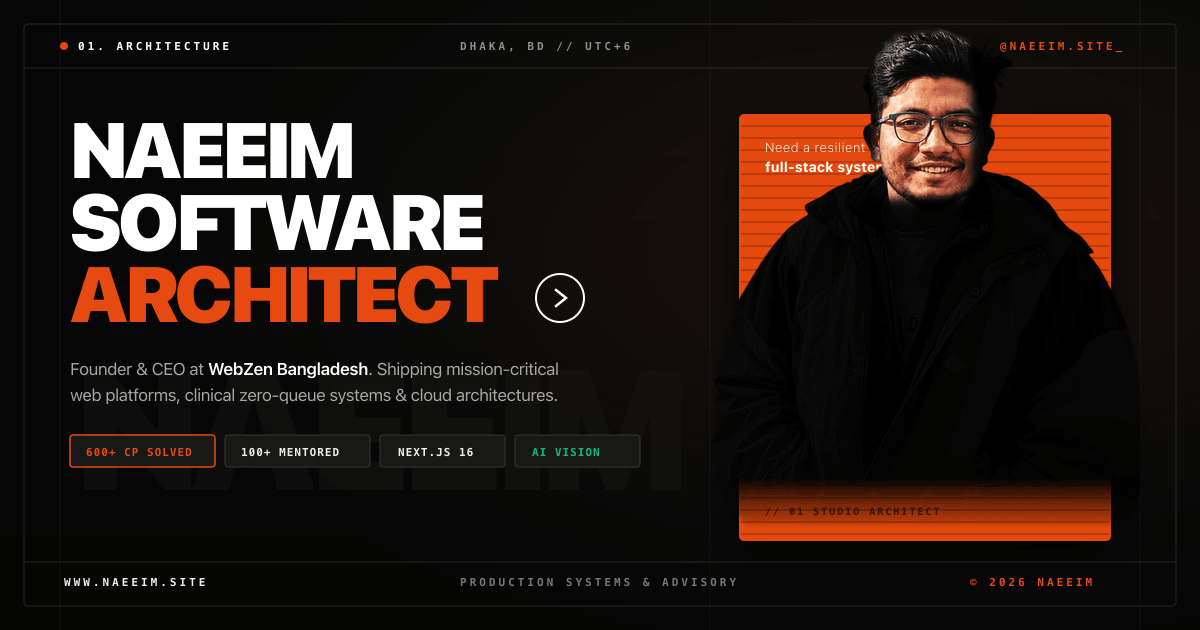
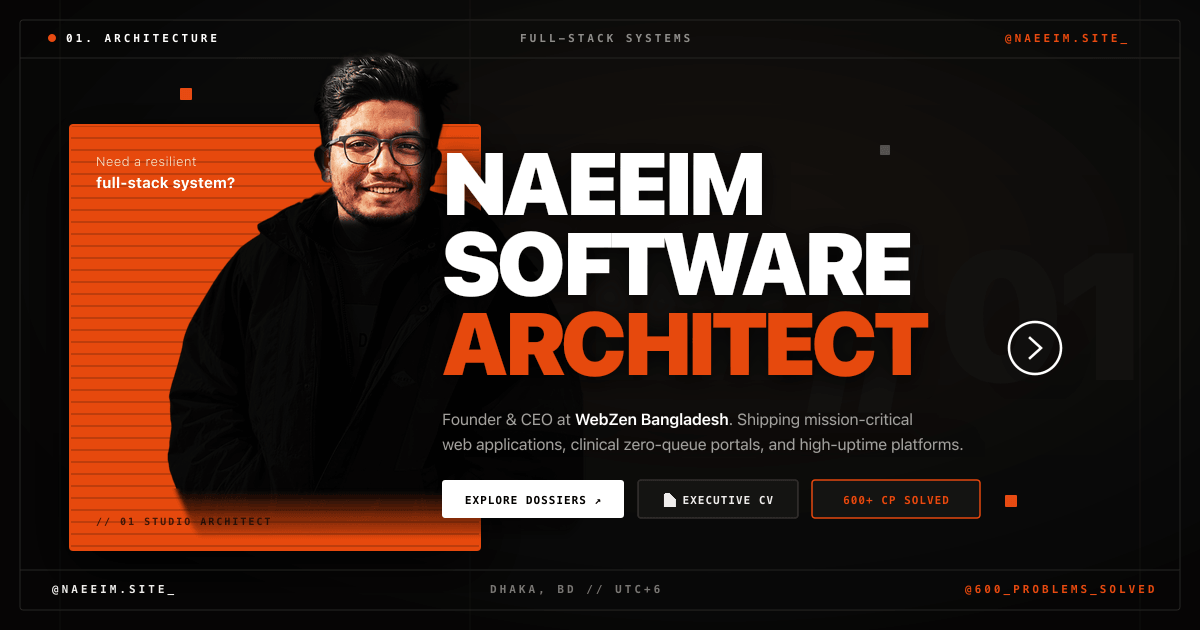
feat(og-image): update open graph image with current hero editorial poster layout

diff --git a/scripts/generate-og-image.js b/scripts/generate-og-image.js
@@ -6,188 +6,205 @@ async function createOgImage() {
   const root = path.resolve(__dirname, '..');
   const cutoutPath = path.join(root, 'public', 'images', 'hero-cutout.png');
 
-  // 1. Prepare Cutout Portrait (Height: 520px)
+  // 1. Prepare Cutout Portrait (Height: 520px, Width: ~444px)
   const resizedCutout = await sharp(cutoutPath)
-    .resize({ height: 530, fit: 'contain' })
+    .resize({ height: 515, fit: 'contain' })
     .toBuffer();
 
   const cutoutMeta = await sharp(resizedCutout).metadata();
   console.log('Resized cutout dimensions:', cutoutMeta.width, cutoutMeta.height);
 
-  // 2. Base 1200x630 SVG with Editorial Poster Aesthetics
-  const baseSvg = `
+  // 2. Base Background SVG (Layer 0 + Layer 1: Burnt Orange Block & Blueprint Grid)
+  const baseBgSvg = `
 <svg xmlns="http://www.w3.org/2000/svg" viewBox="0 0 1200 630" width="1200" height="630">
   <defs>
     <linearGradient id="bgGrad" x1="0%" y1="0%" x2="0%" y2="100%">
-      <stop offset="0%" stop-color="#121210"/>
+      <stop offset="0%" stop-color="#11110F"/>
       <stop offset="100%" stop-color="#080807"/>
     </linearGradient>
-    <radialGradient id="vignette" cx="75%" cy="40%" r="65%">
-      <stop offset="0%" stop-color="#24140D" stop-opacity="0.4"/>
-      <stop offset="60%" stop-color="#0A0A09" stop-opacity="0.8"/>
-      <stop offset="100%" stop-color="#050505" stop-opacity="0.95"/>
+    <radialGradient id="vignette" cx="60%" cy="40%" r="70%">
+      <stop offset="0%" stop-color="#1E140F" stop-opacity="0.4"/>
+      <stop offset="60%" stop-color="#0A0A09" stop-opacity="0.85"/>
+      <stop offset="100%" stop-color="#050505" stop-opacity="0.98"/>
     </radialGradient>
-    <pattern id="corduroy" width="12" height="12" patternUnits="userSpaceOnUse">
-      <line x1="0" y1="6" x2="12" y2="6" stroke="#000000" stroke-width="2" stroke-opacity="0.15"/>
-    </pattern>
     <pattern id="orangeStripes" width="12" height="12" patternUnits="userSpaceOnUse">
       <rect width="12" height="12" fill="#E64A11"/>
-      <line x1="0" y1="6" x2="12" y2="6" stroke="#000000" stroke-width="2" stroke-opacity="0.2"/>
+      <line x1="0" y1="6" x2="12" y2="6" stroke="#000000" stroke-width="2" stroke-opacity="0.18"/>
     </pattern>
-    <filter id="cardShadow" x="-10%" y="-10%" width="120%" height="120%">
-      <feDropShadow dx="0" dy="16" stdDeviation="24" flood-color="#000000" flood-opacity="0.8"/>
+    <filter id="blockShadow" x="-10%" y="-10%" width="120%" height="120%">
+      <feDropShadow dx="0" dy="20" stdDeviation="30" flood-color="#000000" flood-opacity="0.85"/>
     </filter>
   </defs>
 
-  <!-- Background Base -->
+  <!-- Canvas Background -->
   <rect width="1200" height="630" fill="url(#bgGrad)"/>
   <rect width="1200" height="630" fill="url(#vignette)"/>
 
-  <!-- Subtle Exposed Grid Lines (Swiss Precision) -->
+  <!-- Exposed Blueprint Grid Lines -->
   <line x1="60" y1="0" x2="60" y2="630" stroke="#FFFFFF" stroke-width="1" stroke-opacity="0.04"/>
-  <line x1="710" y1="0" x2="710" y2="630" stroke="#FFFFFF" stroke-width="1" stroke-opacity="0.04"/>
+  <line x1="470" y1="0" x2="470" y2="630" stroke="#FFFFFF" stroke-width="1" stroke-opacity="0.03"/>
   <line x1="1140" y1="0" x2="1140" y2="630" stroke="#FFFFFF" stroke-width="1" stroke-opacity="0.04"/>
 
-  <!-- Outer Border Frame -->
-  <rect x="24" y="24" width="1152" height="582" rx="4" fill="none" stroke="#262624" stroke-width="1"/>
+  <!-- Outer Swiss Perimeter Frame -->
+  <rect x="20" y="20" width="1160" height="590" rx="3" fill="none" stroke="#262624" stroke-width="1"/>
 
   <!-- TOP PERIMETER BAR -->
-  <line x1="24" y1="68" x2="1176" y2="68" stroke="#262624" stroke-width="1"/>
+  <line x1="20" y1="58" x2="1180" y2="58" stroke="#262624" stroke-width="1"/>
   
   <g font-family="monospace, -apple-system" font-size="11" font-weight="700" letter-spacing="3" fill="#8E8E88">
-    <!-- Left badge -->
-    <circle cx="64" cy="46" r="4" fill="#E64A11"/>
-    <text x="78" y="50" fill="#FFFFFF">01. ARCHITECTURE</text>
+    <circle cx="52" cy="38" r="4" fill="#E64A11"/>
+    <text x="66" y="42" fill="#FFFFFF">01. ARCHITECTURE</text>
     
-    <!-- Center coordinate -->
-    <text x="460" y="50">DHAKA, BD // UTC+6</text>
+    <text x="520" y="42">FULL-STACK SYSTEMS</text>
     
-    <!-- Right domain -->
-    <text x="1000" y="50" fill="#E64A11">@NAEEIM.SITE_</text>
+    <text x="1005" y="42" fill="#E64A11">@NAEEIM.SITE_</text>
   </g>
 
-  <!-- BACKGROUND WATERMARK (Subtle Large Text) -->
-  <text x="70" y="490" font-family="-apple-system, system-ui, sans-serif" font-size="170" font-weight="900" fill="#141412" letter-spacing="-8" opacity="0.6">
-    NAEEIM
+  <!-- LAYER 0: GIANT WATERMARK TEXT -->
+  <text x="640" y="380" text-anchor="middle" font-family="-apple-system, system-ui, sans-serif" font-size="180" font-weight="900" fill="#141412" letter-spacing="-8" opacity="0.65">
+    NAEEIM // 01
   </text>
 
   <!-- ========================================================= -->
-  <!-- RIGHT SIDE: BURNT ORANGE GEOMETRIC POSTER BLOCK           -->
+  <!-- LAYER 1: BURNT ORANGE GEOMETRIC POSTER BLOCK (LEFT)       -->
   <!-- ========================================================= -->
-  <g filter="url(#cardShadow)">
-    <rect x="740" y="115" width="370" height="425" rx="4" fill="url(#orangeStripes)" stroke="#E64A11" stroke-width="2"/>
+  <g filter="url(#blockShadow)">
+    <rect x="70" y="125" width="410" height="425" rx="3" fill="url(#orangeStripes)" stroke="#E64A11" stroke-width="2"/>
     
     <!-- Top-Left Editorial Lead-in inside block -->
-    <text x="765" y="152" font-family="-apple-system, system-ui, sans-serif" font-size="13" font-weight="300" fill="#FFE5DC" letter-spacing="0.5">
+    <text x="96" y="166" font-family="-apple-system, system-ui, sans-serif" font-size="13" font-weight="300" fill="#FFE0D4" letter-spacing="0.5">
       Need a resilient
     </text>
-    <text x="765" y="172" font-family="-apple-system, system-ui, sans-serif" font-size="14" font-weight="700" fill="#FFFFFF" letter-spacing="0.2">
+    <text x="96" y="188" font-family="-apple-system, system-ui, sans-serif" font-size="15" font-weight="700" fill="#FFFFFF" letter-spacing="0.2">
       full-stack system?
     </text>
 
     <!-- Bottom Studio Watermark inside block -->
-    <text x="765" y="515" font-family="monospace, -apple-system" font-size="10" font-weight="700" fill="#000000" letter-spacing="2" opacity="0.6">
+    <text x="96" y="525" font-family="monospace, -apple-system" font-size="10" font-weight="700" fill="#000000" letter-spacing="2" opacity="0.7">
       // 01 STUDIO ARCHITECT
     </text>
   </g>
 
+  <!-- Floating Pixel 1 (Top-Left above block) -->
+  <rect x="180" y="88" width="12" height="12" fill="#E64A11" rx="1"/>
+</svg>
+  `.trim();
+
+  // 3. Foreground Typography & Details SVG (Layer 3: Sits ON TOP of Cutout)
+  const foregroundSvg = `
+<svg xmlns="http://www.w3.org/2000/svg" viewBox="0 0 1200 630" width="1200" height="630">
+  <defs>
+    <filter id="textGlow" x="-10%" y="-10%" width="120%" height="120%">
+      <feDropShadow dx="0" dy="4" stdDeviation="12" flood-color="#000000" flood-opacity="0.95"/>
+    </filter>
+  </defs>
+
   <!-- ========================================================= -->
-  <!-- LEFT SIDE: EDITORIAL STACKED IMPACT TYPOGRAPHY            -->
+  <!-- LAYER 3: 3-ROW STACKED IMPACT TYPOGRAPHY (RIGHT)          -->
   <!-- ========================================================= -->
-  <g font-family="-apple-system, system-ui, 'Helvetica Neue', sans-serif">
+  <g font-family="-apple-system, system-ui, 'Helvetica Neue', sans-serif" filter="url(#textGlow)">
     <!-- Row 1: NAEEIM -->
-    <text x="68" y="178" font-size="78" font-weight="900" fill="#FFFFFF" letter-spacing="-3">
+    <text x="440" y="215" font-size="88" font-weight="900" fill="#FFFFFF" letter-spacing="-3">
       NAEEIM
     </text>
 
     <!-- Row 2: SOFTWARE -->
-    <text x="68" y="250" font-size="78" font-weight="900" fill="#FFFFFF" letter-spacing="-3">
+    <text x="440" y="295" font-size="88" font-weight="900" fill="#FFFFFF" letter-spacing="-3">
       SOFTWARE
     </text>
 
     <!-- Row 3: ARCHITECT -->
-    <text x="68" y="322" font-size="78" font-weight="900" fill="#E64A11" letter-spacing="-3">
+    <text x="440" y="375" font-size="88" font-weight="900" fill="#E64A11" letter-spacing="-3">
       ARCHITECT
     </text>
 
     <!-- Circular Chevron Graphic -->
-    <circle cx="560" cy="298" r="24" fill="none" stroke="#FFFFFF" stroke-width="2"/>
-    <path d="M556 290 L566 298 L556 306" fill="none" stroke="#FFFFFF" stroke-width="2.5" stroke-linecap="square"/>
+    <circle cx="1035" cy="348" r="26" fill="none" stroke="#FFFFFF" stroke-width="2.5"/>
+    <path d="M1030 338 L1041 348 L1030 358" fill="none" stroke="#FFFFFF" stroke-width="2.5" stroke-linecap="square"/>
   </g>
+
+  <!-- Floating Pixels -->
+  <rect x="880" y="145" width="10" height="10" fill="#525252" rx="1"/>
+  <rect x="1005" y="495" width="12" height="12" fill="#E64A11" rx="1"/>
 
   <!-- BIO PARAGRAPH -->
-  <g font-family="-apple-system, system-ui, sans-serif" font-size="17" fill="#A8A8A2" letter-spacing="-0.2">
-    <text x="70" y="375" font-weight="400">
+  <g font-family="-apple-system, system-ui, sans-serif" font-size="16" fill="#A3A39E" letter-spacing="-0.1" filter="url(#textGlow)">
+    <text x="442" y="425" font-weight="400">
       Founder &amp; CEO at <tspan fill="#FFFFFF" font-weight="600">WebZen Bangladesh</tspan>. Shipping mission-critical
     </text>
-    <text x="70" y="401" font-weight="400">
-      web platforms, clinical zero-queue systems &amp; cloud architectures.
+    <text x="442" y="450" font-weight="400">
+      web applications, clinical zero-queue portals, and high-uptime platforms.
     </text>
   </g>
 
-  <!-- CREDENTIAL PILLS & TECH TAGS -->
-  <g font-family="monospace, -apple-system" font-size="11" font-weight="700" letter-spacing="1">
-    <!-- Pill 1: 600+ CP -->
-    <rect x="70" y="435" width="145" height="32" rx="3" fill="#181816" stroke="#E64A11" stroke-width="1.5"/>
-    <text x="86" y="456" fill="#E64A11">600+ CP SOLVED</text>
+  <!-- TACTILE ACTION BUTTONS (Matching Current Site) -->
+  <g font-family="monospace, -apple-system" font-size="11" font-weight="800" letter-spacing="1">
+    <!-- Button 1: Solid White (EXPLORE DOSSIERS ↗) -->
+    <rect x="442" y="480" width="182" height="38" rx="3" fill="#FFFFFF"/>
+    <text x="533" y="504" text-anchor="middle" fill="#000000">EXPLORE DOSSIERS ↗</text>
 
-    <!-- Pill 2: 100+ MENTORED -->
-    <rect x="225" y="435" width="145" height="32" rx="3" fill="#181816" stroke="#333330" stroke-width="1"/>
-    <text x="241" y="456" fill="#EDEDEC">100+ MENTORED</text>
+    <!-- Button 2: Dark Bordered (EXECUTIVE CV) -->
+    <rect x="638" y="480" width="160" height="38" rx="3" fill="#141412" stroke="#333330" stroke-width="1.5"/>
+    <text x="718" y="504" text-anchor="middle" fill="#EDEDEC">📄 EXECUTIVE CV</text>
 
-    <!-- Pill 3: NEXT.JS 16 -->
-    <rect x="380" y="435" width="125" height="32" rx="3" fill="#181816" stroke="#333330" stroke-width="1"/>
-    <text x="398" y="456" fill="#EDEDEC">NEXT.JS 16</text>
-
-    <!-- Pill 4: AI RESEARCH -->
-    <rect x="515" y="435" width="125" height="32" rx="3" fill="#181816" stroke="#333330" stroke-width="1"/>
-    <text x="532" y="456" fill="#10B981">AI VISION</text>
+    <!-- Button 3: Tag / 600+ Solved -->
+    <rect x="812" y="480" width="168" height="38" rx="3" fill="#141412" stroke="#E64A11" stroke-width="1.5"/>
+    <text x="896" y="504" text-anchor="middle" fill="#E64A11">600+ CP SOLVED</text>
   </g>
 
   <!-- BOTTOM PERIMETER BAR -->
-  <line x1="24" y1="562" x2="1176" y2="562" stroke="#262624" stroke-width="1"/>
+  <line x1="20" y1="570" x2="1180" y2="570" stroke="#262624" stroke-width="1"/>
   
   <g font-family="monospace, -apple-system" font-size="11" font-weight="700" letter-spacing="3" fill="#787872">
-    <text x="64" y="586" fill="#EDEDEC">WWW.NAEEIM.SITE</text>
-    <text x="460" y="586">PRODUCTION SYSTEMS &amp; ADVISORY</text>
-    <text x="970" y="586" fill="#E64A11">© 2026 NAEEIM</text>
+    <text x="52" y="593" fill="#EDEDEC">@NAEEIM.SITE_</text>
+    <text x="490" y="593">DHAKA, BD // UTC+6</text>
+    <text x="965" y="593" fill="#E64A11">@600_PROBLEMS_SOLVED</text>
   </g>
-
 </svg>
   `.trim();
 
-  // 3. Render base SVG to 1200x630 PNG buffer
-  const basePng = await sharp(Buffer.from(baseSvg))
+  // 4. Render Base Background SVG to PNG
+  const basePng = await sharp(Buffer.from(baseBgSvg))
     .png()
     .toBuffer();
 
-  // 4. Calculate Cutout Portrait Placement
-  // Cutout height is 530px. Orange block bottom is 115 + 425 = 540.
-  // So placement at top = 540 - 530 = 10px!
-  // Head extends from 10px to 115px (105px breakout above orange block!)
-  // Horizontal placement: x = 700 (overlapping right of orange block nicely)
+  // 5. Render Foreground Typography SVG to PNG
+  const foregroundPng = await sharp(Buffer.from(foregroundSvg))
+    .png()
+    .toBuffer();
+
+  // 6. Multi-layer Composite: Base -> Cutout Portrait -> Foreground Typography
+  // Cutout height is 515. Orange block bottom is 125 + 425 = 550.
+  // Placement top = 550 - 515 = 35px!
+  // Head extends from y=35 to y=125 (90px heroic breakout above orange block!)
+  // Left = 160 (places right half over the orange block, shoulder extends toward text)
   const finalComposite = await sharp(basePng)
     .composite([
       {
         input: resizedCutout,
-        top: 10,
-        left: 700,
+        top: 35,
+        left: 155,
+      },
+      {
+        input: foregroundPng,
+        top: 0,
+        left: 0,
       },
     ])
     .png({ quality: 95 })
     .toBuffer();
 
-  // 5. Save to app/opengraph-image.png (Next.js App Router convention)
+  // 7. Save to app/opengraph-image.png (Next.js App Router convention)
   const appOgPath = path.join(root, 'app', 'opengraph-image.png');
   fs.writeFileSync(appOgPath, finalComposite);
   console.log('Saved:', appOgPath);
 
-  // 6. Save to public/og-image.png (for explicit metadata URL reference)
+  // 8. Save to public/og-image.png (for explicit metadata URL reference)
   const publicOgPath = path.join(root, 'public', 'og-image.png');
   fs.writeFileSync(publicOgPath, finalComposite);
   console.log('Saved:', publicOgPath);
 
-  // 7. Save to app/twitter-image.png and public/twitter-image.png
+  // 9. Save to app/twitter-image.png
   const appTwitterPath = path.join(root, 'app', 'twitter-image.png');
   fs.writeFileSync(appTwitterPath, finalComposite);
   console.log('Saved:', appTwitterPath);
@@ -197,3 +214,4 @@ createOgImage().catch(err => {
   console.error(err);
   process.exit(1);
 });
+
